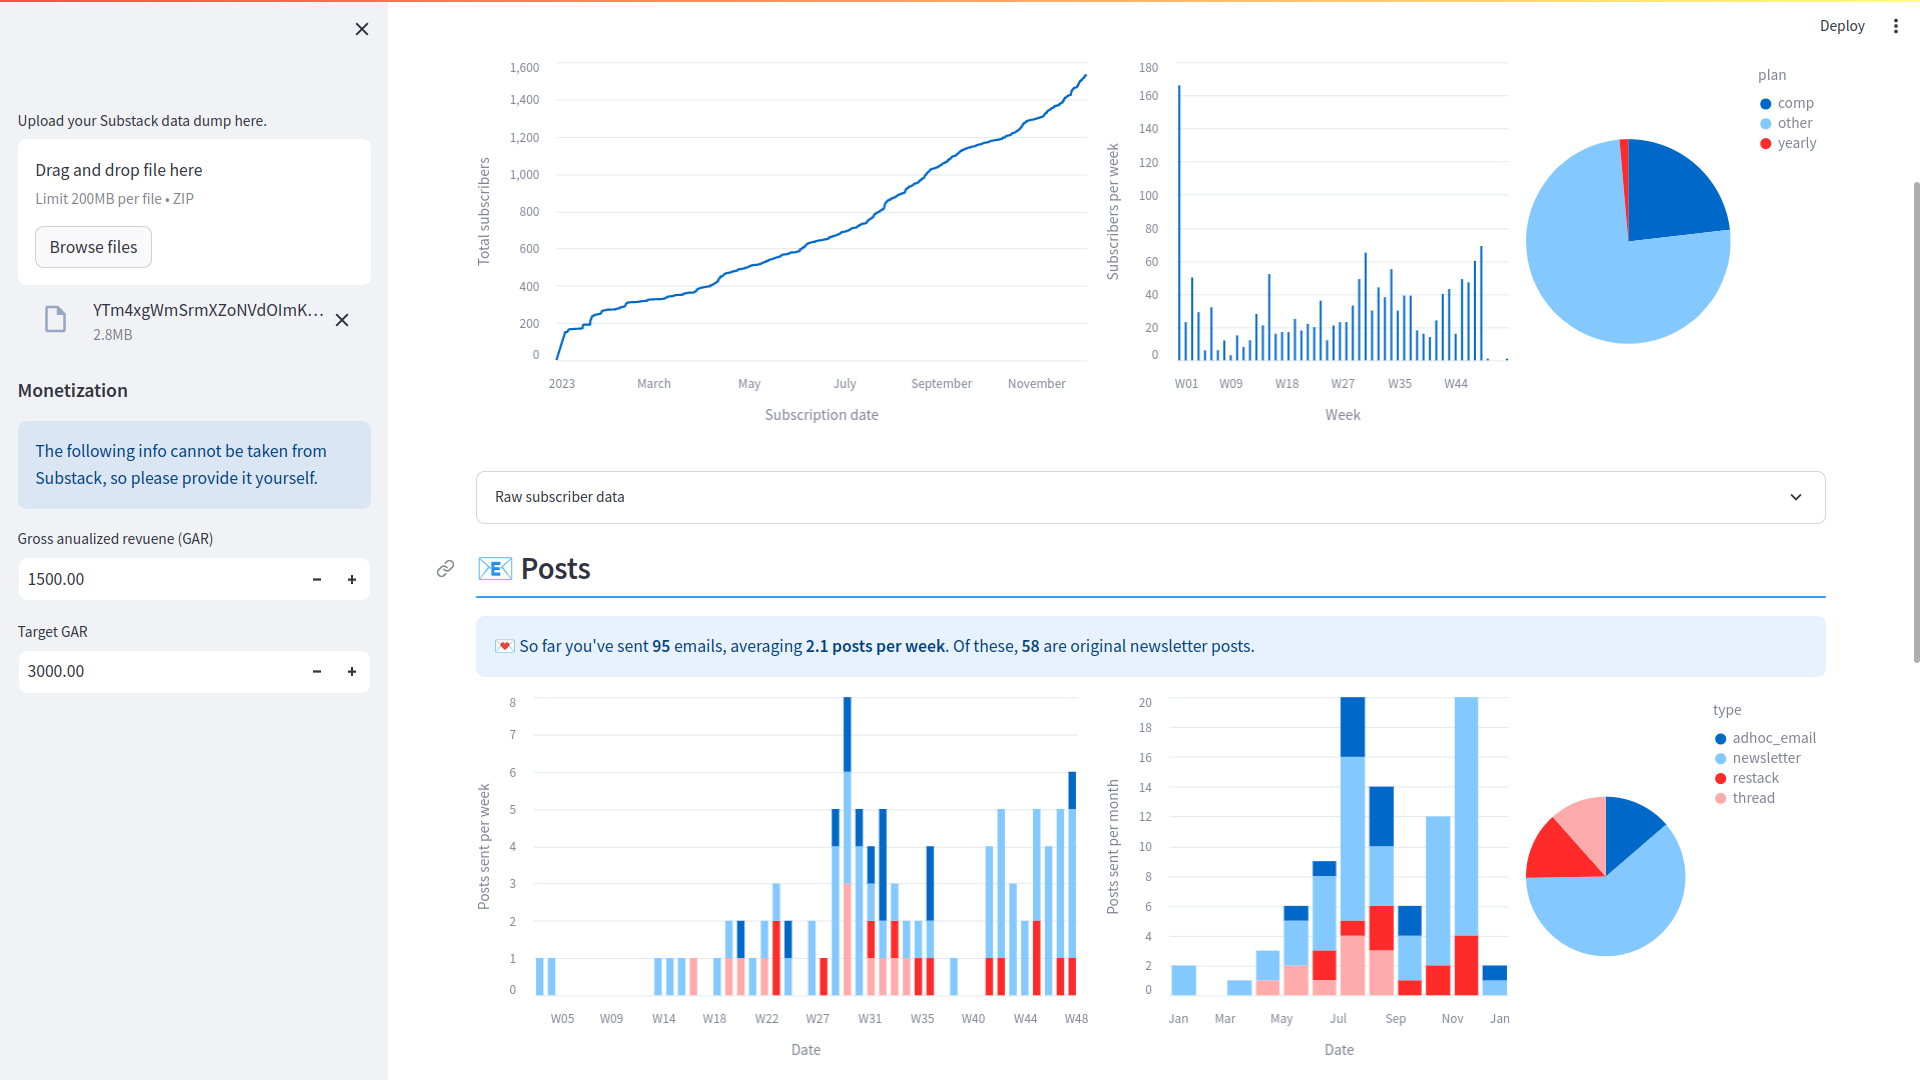
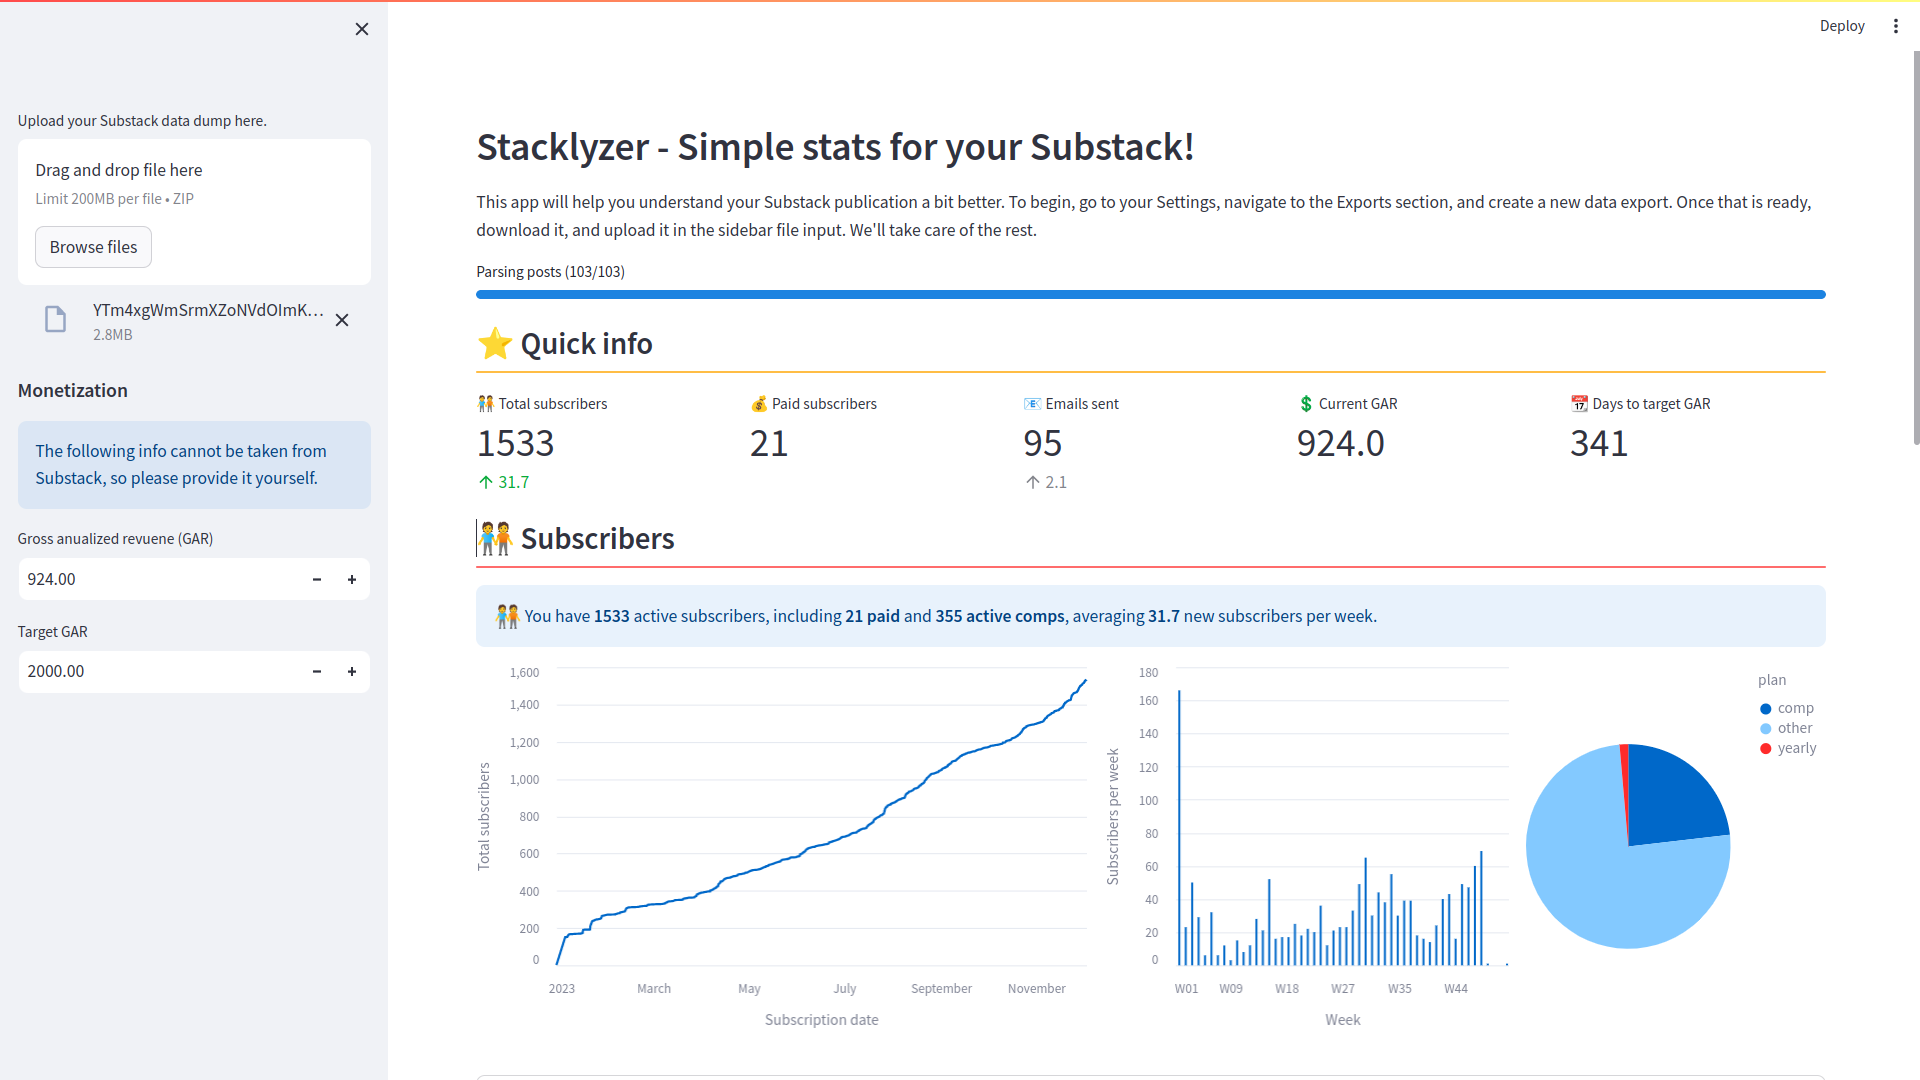
Add quick metrics

diff --git a/app.py b/app.py
@@ -49,6 +49,15 @@ def parse_texts(filename):
 
 texts = parse_texts(data.filename)
 
+st.subheader("⭐ Quick info", divider="orange")
+
+cols = st.columns(5)
+metric_sub = cols[0].metric("🧑🤝🧑 Total subscribers", 0)
+metric_paid = cols[1].metric("💰 Paid subscribers", 0)
+metric_emails = cols[2].metric("📧 Emails sent", 0)
+metric_gar = cols[3].metric("💲 Current GAR", 0)
+target_gar = cols[4].metric("📆 Days to target GAR", 0)
+
 st.subheader("🧑🤝🧑 Subscribers", divider="red")
 
 email_list = [f for f in files if f.orig_filename.startswith("email_list")][0]
@@ -66,6 +75,9 @@ weeks = (end_date - start_date).days / 7
 avg = len(subs_df) / weeks
 
 subs90 = len(subs_df[subs_df["created_at"] >= str(three_month)]) / 90
+
+metric_sub.metric("🧑🤝🧑 Total subscribers", len(subs_df), delta=round(avg, 1))
+metric_paid.metric("💰 Paid subscribers", yearly)
 
 st.info(
     f"You have **{len(subs_df)}** active subscribers, including **{yearly} paid** and **{comp} active comps**, averaging **{avg:.1f}** new subscribers per week.",
@@ -121,6 +133,10 @@ weeks = (end_date - start_date).days / 7
 avg = len(published) / weeks
 newsletters = len(published[published["type"] == "newsletter"])
 
+metric_emails.metric(
+    "📧 Emails sent", len(published), delta=round(avg, 1), delta_color="off"
+)
+
 st.info(
     f"💌 So far you've sent **{len(published)}** emails, averaging **{avg:.1f} posts per week**. Of these, **{newsletters}** are original newsletter posts."
 )
@@ -160,7 +176,7 @@ with right:
 with st.expander("Raw posts data"):
     st.dataframe(posts_df)
 
-left, right = st.columns([2,1])
+left, right = st.columns([2, 1])
 
 with left:
     st.write("#### When are you posting the most?")
@@ -199,7 +215,10 @@ with right:
     st.altair_chart(
         alt.Chart(df)
         .mark_bar()
-        .encode(x=alt.X("words", bin=True), y="count()")
+        .encode(
+            x=alt.X("words", bin=True, title="Post length (in words)"),
+            y=alt.Y("count()", title="Number of posts"),
+        )
         .properties(height=300),
         use_container_width=True,
     )
@@ -207,13 +226,19 @@ with right:
 
 st.subheader("💲Monetization", divider="green")
 
-
-
 st.sidebar.markdown("### Monetization")
-st.sidebar.info("The following info cannot be taken from Substack, so please provide it yourself.")
+st.sidebar.info(
+    "The following info cannot be taken from Substack, so please provide it yourself."
+)
 
-gar = st.sidebar.number_input("Gross anualized revuene (GAR)", min_value=1.0, format="%.2f", step=10.0)
-target = st.sidebar.number_input("Target GAR", min_value=gar, format="%.2f", step=10.0)
+gar = st.sidebar.number_input(
+    "Gross anualized revuene (GAR)", min_value=1.0, format="%.2f", step=10.0
+)
+target = st.sidebar.number_input(
+    "Target GAR", min_value=gar, value=gar, format="%.2f", step=10.0
+)
+
+metric_gar.metric("💲 Current GAR", gar)
 
 subdollar = len(subs_df) / gar
 targetsub = round(target * subdollar)
@@ -222,9 +247,13 @@ needdays = needsubs / subs90
 timedelta = datetime.timedelta(days=needdays)
 date = datetime.datetime.today() + timedelta
 
-st.write(f"""
+target_gar.metric("📆 Days to target GAR", timedelta.days)
+
+st.write(
+    f"""
 - Your current subscriber to dollar ratio is **{subdollar:.2f}** subs/$.
 - To reach your target GAR of **${target}** you'll need around **{targetsub}** free subscribers.
 - Your 90-day average growth rate is **{subs90:.1f} subscribers/day**.
 - At this rate, you'll hit your target GAR on **{timedelta.days} days**, or {date.date()}.
-""")
+"""
+)

diff --git a/Readme.md b/Readme.md
@@ -12,4 +12,4 @@ To run it locally, clone the project, pip install the `requirements.txt` file an
 
 ## Contribution
 
-Like everything I do, this is MIT :)
+Like everything I do, [this is MIT](LICENSE) :)
